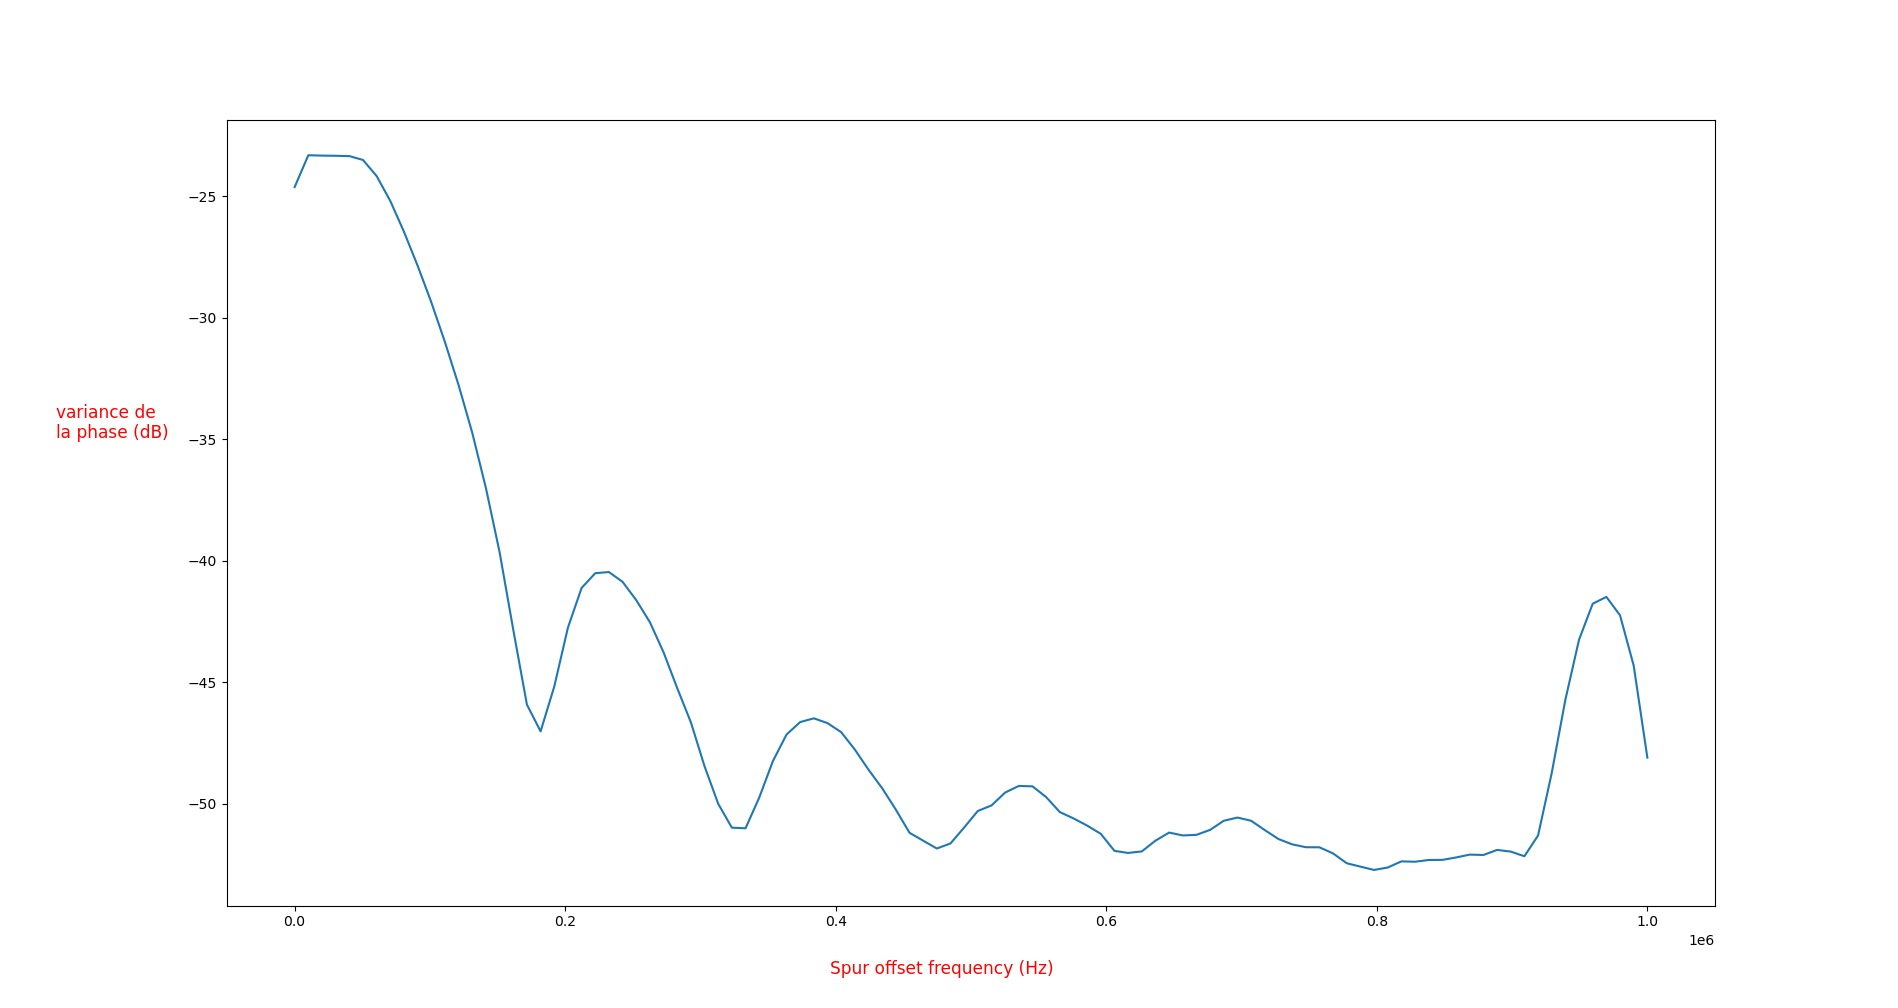
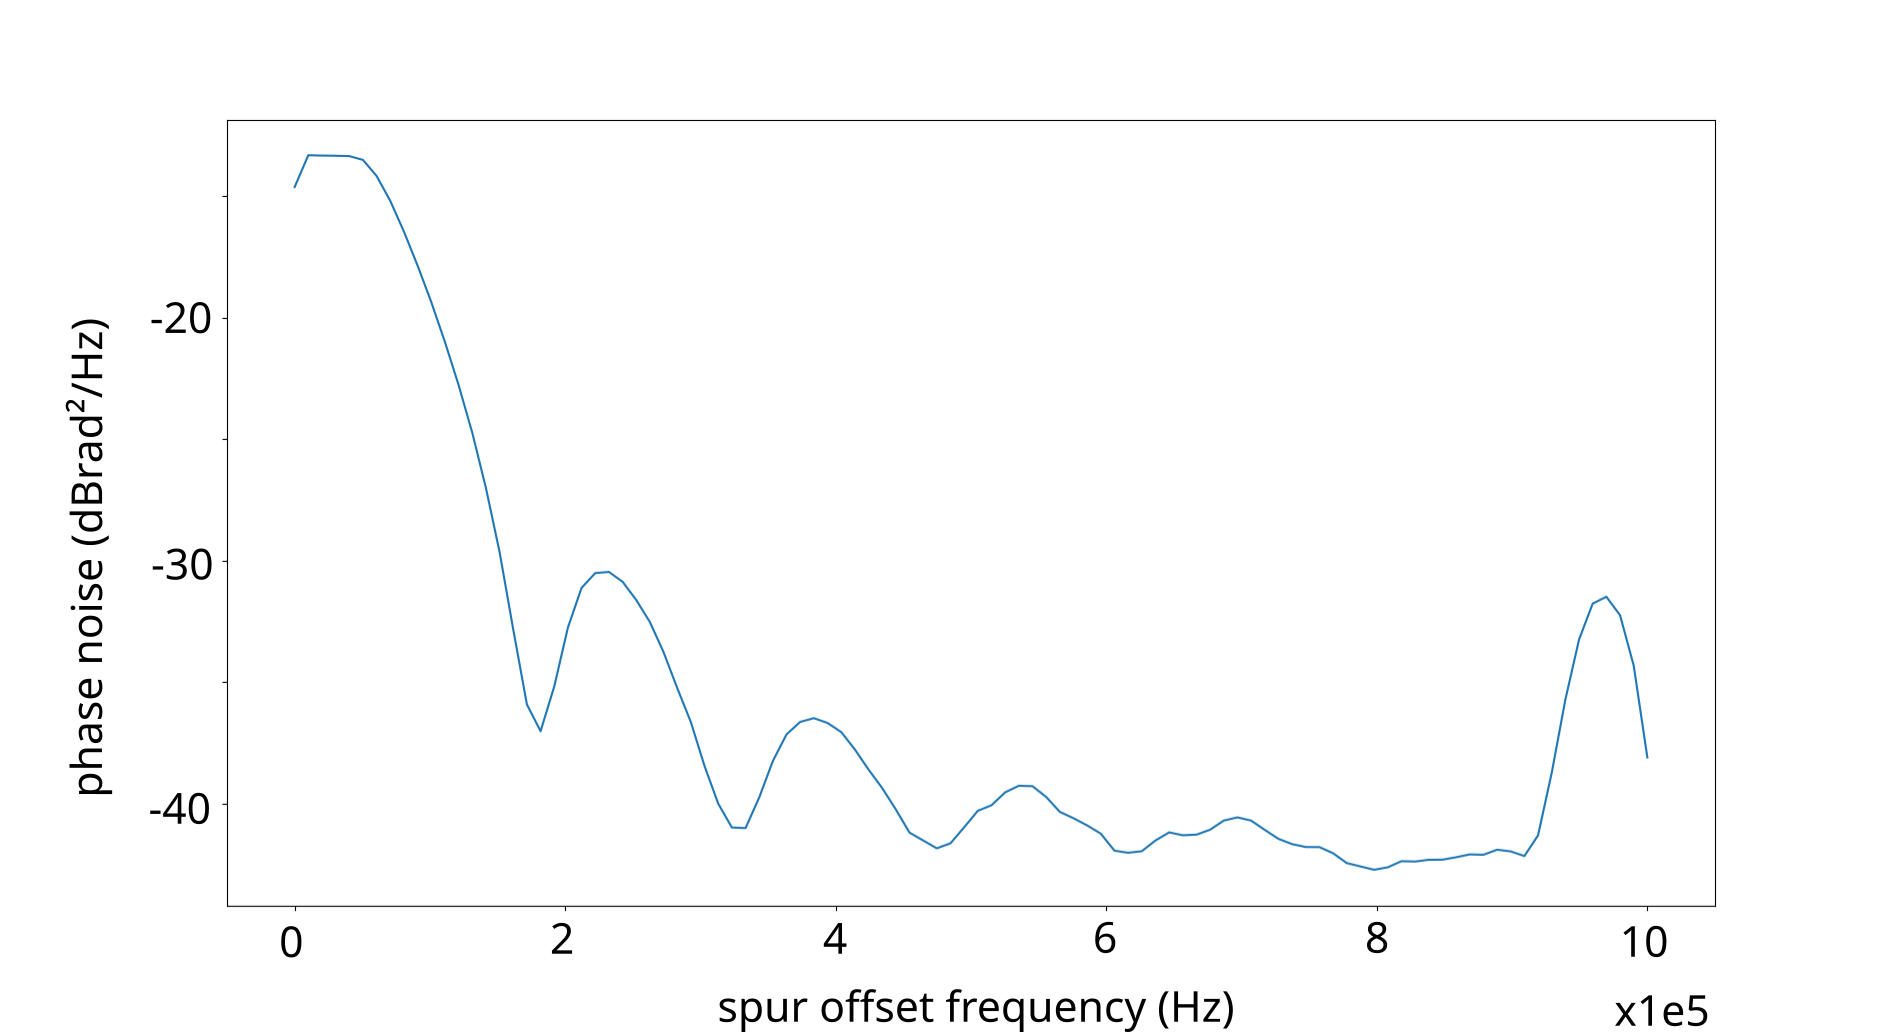
little progress

diff --git a/26_CERN_Workshop/slides.tex b/26_CERN_Workshop/slides.tex
@@ -60,15 +60,22 @@ FEMTO-ST Time \& Frequency department, Besan\c con, France \\ \
 \end{frame}
 
 \begin{frame}[fragile]\frametitle{PLL Indeterminism}
-
 \includegraphics[width=\linewidth]{pll_indeterminism_fig.pdf}
+
+\begin{minipage}{.5\linewidth}
+{\footnotesize
 \begin{itemize}
 	\item PLL multiplying by 1.5, division by 2 yields 2 possible phase positions.
 	\item Sampling these 2 possible signals at the same time would give 2 patterns: \texttt{10} or \texttt{01}
 	\item A PLL with divisor N gives N patterns each N bits long. With a LUT we know what position we are in and we can then correct it: https://wiki.confluence.nikhef.nl/wiki/spaces/WRNIK/pages/934182916/Lock+Sweep
 	\item By simulating the sampling of the patterns, we can automaticaly generate the LUT for given frequencies
-\end{itemize}
+\end{itemize}}
+\end{minipage}
+\begin{minipage}{.49\linewidth}
+\includegraphics[width=.\linewidth]{plt_pll_lock_possibilities.pdf}
 
+A PLL dividing by 5 yeilds 5 possibilities
+\end{minipage}
 \end{frame}
 
 \begin{frame}[fragile]\frametitle{Auxiliary Locksweep}
@@ -87,16 +94,26 @@ FEMTO-ST Time \& Frequency department, Besan\c con, France \\ \
 
 \begin{frame}[fragile]\frametitle{Auxiliary Locksweep}
 
-\includegraphics[width=\linewidth]{locksweep_phase_setpoint.png}
+\includegraphics[width=.5\linewidth]{locksweep_phase_setpoint.png}
+
 It  works!
 
 \end{frame}
 
+\begin{frame}[fragile]\frametitle{DDMTD folds all the noise}
 
+DDMTD works by sub sampling, which fold the noise,
+
+\includegraphics[width=.5\linewidth]{ddmtd_noise_by_beat_freq.pdf}
+
+\end{frame}
+
+\begin{frame}[fragile]\frametitle{DDMTD Noise Function}
+\includegraphics[width=\linewidth]{variance_by_spur_freq.png}
+\end{frame}
 
 \begin{frame}[fragile]\frametitle{MMCM Phase Shifts Noise}
-\includegraphics[width=\linewidth]{dmtd_spurs_by_mmcm_freq.png}
-\includegraphics[width=\linewidth]{variance_by_spur_freq.png}
+\includegraphics[width=.5\linewidth]{dmtd_spurs_by_mmcm_freq.png}
 
 \end{frame}
 
@@ -106,7 +123,7 @@ It  works!
 
 {TXPI PPM for main tunning}
 
-\includegraphics[width=\linewidth]{wr_alternative_clocking_comparison_correct_gain.png}
+\includegraphics[width=\linewidth]{wr_alternative_clocking_comparison_correct_gain.png} % TODO replot
 
 \end{frame}
 